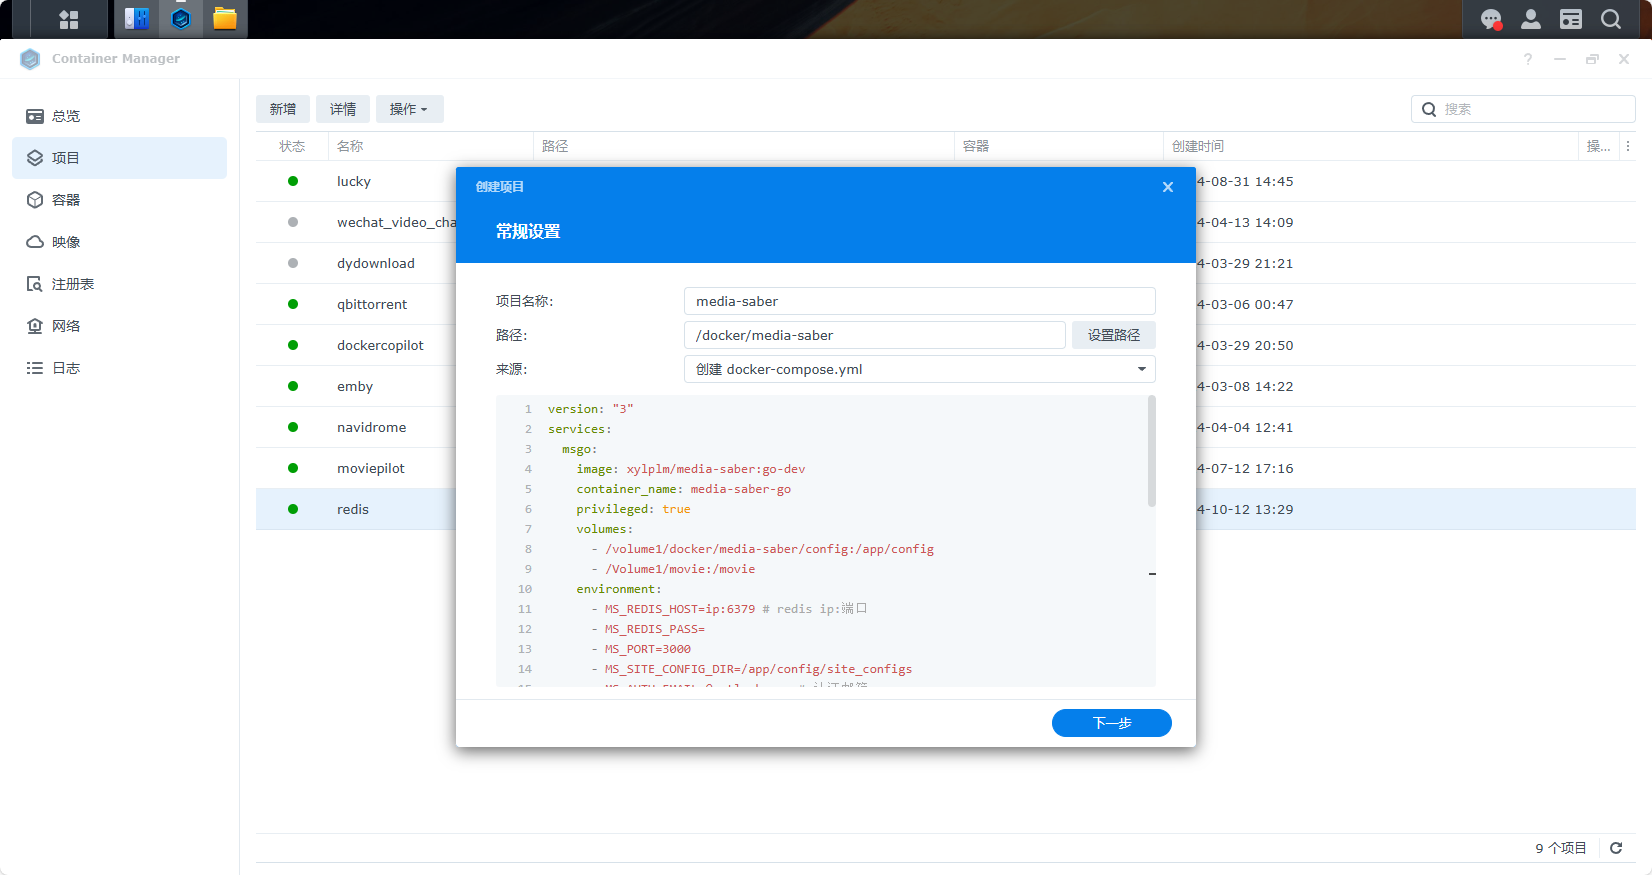
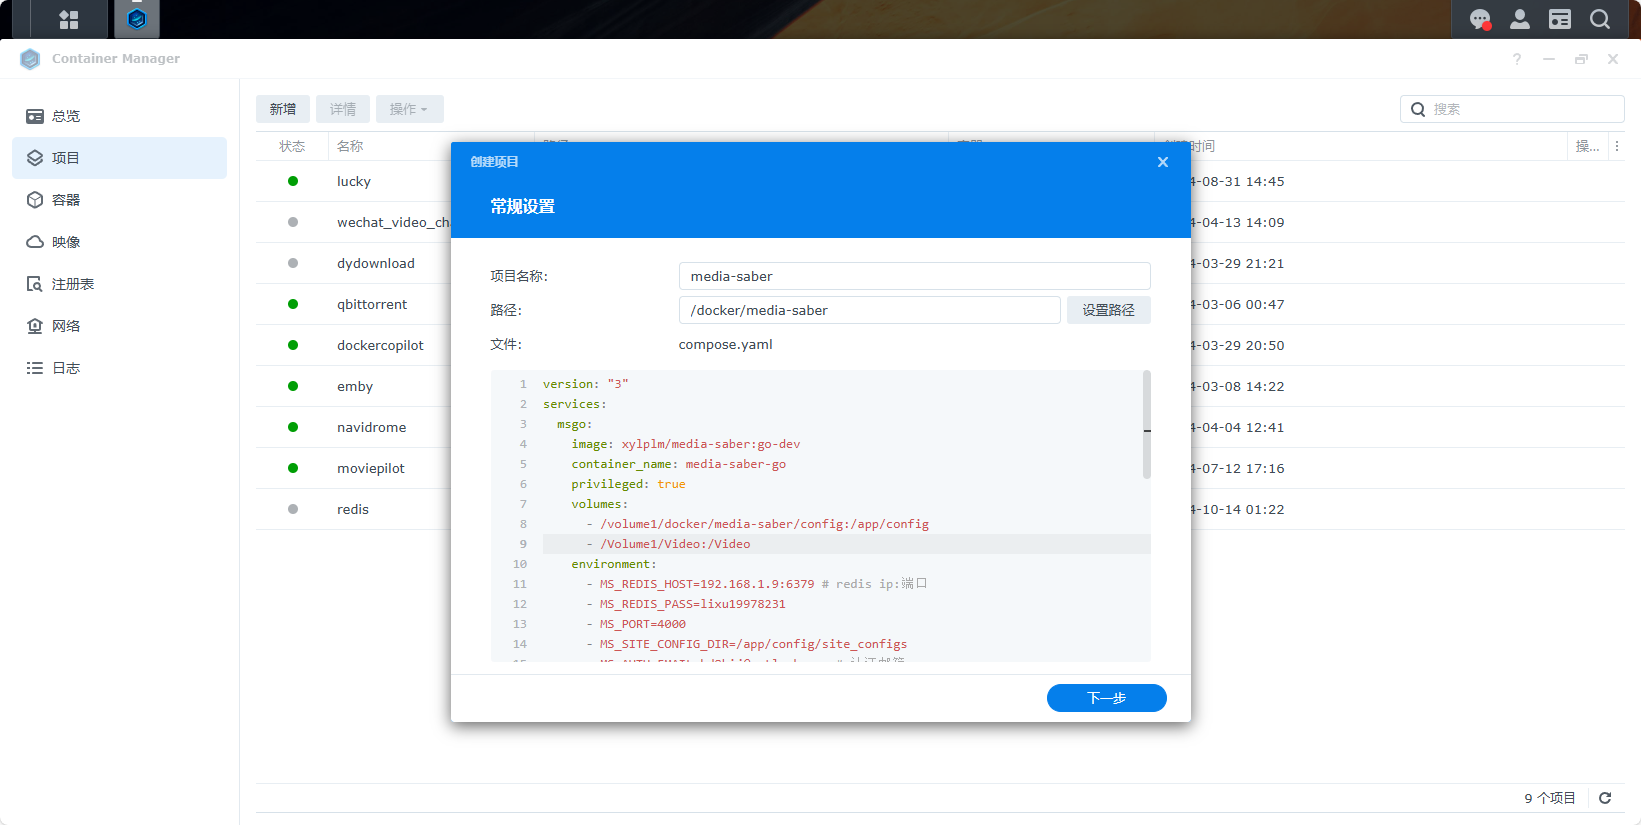
更新

diff --git a/docs/01.新手指引/02.如何安装/04.群晖NAS如何安装.md b/docs/01.新手指引/02.如何安装/04.群晖NAS如何安装.md
@@ -73,7 +73,7 @@ services:
     privileged: true
     volumes:
       - /volume1/docker/media-saber/config:/app/config
-      - /Volume1/movie:/movie
+      - /Volume1/Video:/Video
     environment:
       - MS_REDIS_HOST=ip:6379 # redis ip:端口
       - MS_REDIS_PASS=**********
@@ -103,7 +103,7 @@ networks:
 # redis密码:**********
 # media-saber访问端口:3000
 # 宿主机media-saber配置文件路径：/volume1/docker/media-saber/config
-# 宿主机media-saber媒体库路径：/Volume1/movie
+# 宿主机media-saber媒体库路径：/Volume1/Video
 # media-saber认证邮箱:name@sample.com
 # media-saber认证口令:大佬牛逼
 
